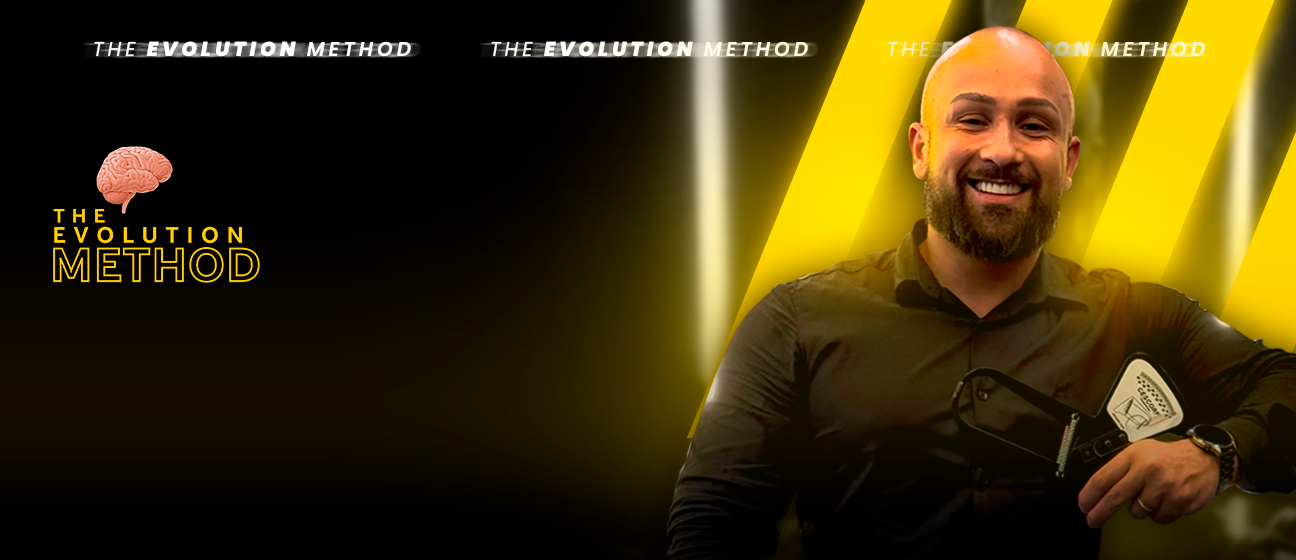
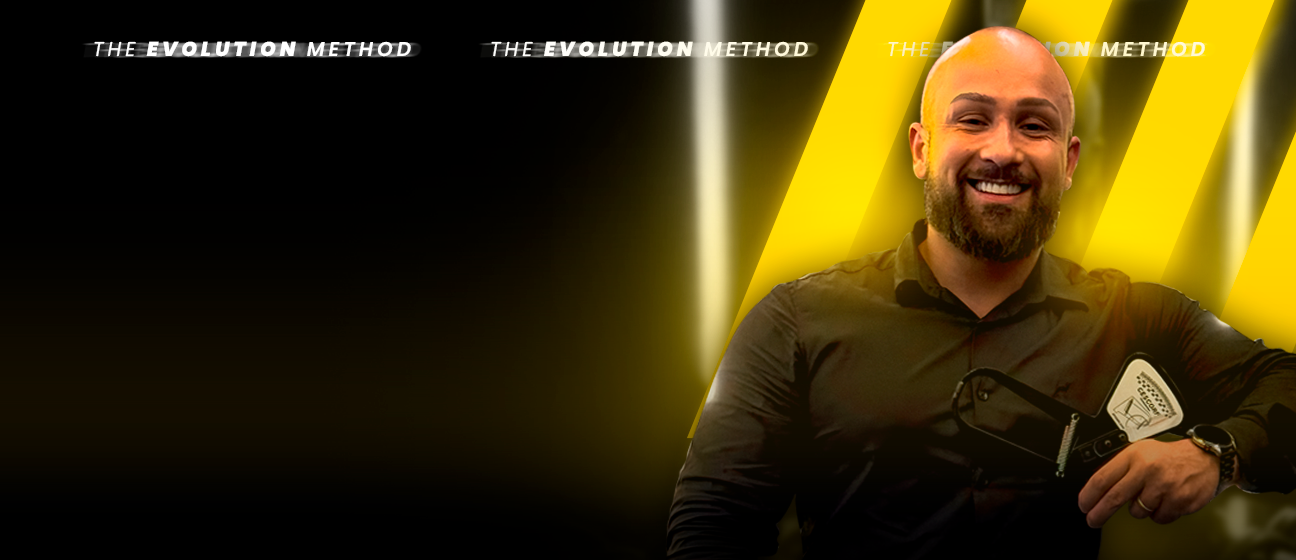
Alteração das imagens do background

Changed region(s): [[0.0309, 0.2429, 0.216, 0.5161]]

diff --git a/src/components/Secoes/Header/Header.css b/src/components/Secoes/Header/Header.css
@@ -130,7 +130,7 @@ h1 {
         font-size: 2.5rem!important;
     }
     .section-header {
-        background-image: url(../../../assets/images/Imagem-capa-mobile2.jpg) !important;
+        background-image: url(../../../assets/images/Imagem-capa-mobile2.png) !important;
         background-size: contain;
         background-position: top;
         height: 70vh;
@@ -151,11 +151,16 @@ h1 {
     h1{
         font-size: 2rem!important;
     }
+    
+    .lead{
+        font-size: 1rem!important;
+    }
+
     .section-header {
-        background-image: url(../../../assets/images/Imagem-capa-mobile2.jpg) !important;
+        background-image: url(../../../assets/images/Imagem-capa-mobile2.png) !important;
         background-size: contain;
         background-position: top;
-        height: 90vh;
+        height: 68vh;
     }
 
     .section-header>div {
@@ -166,5 +171,14 @@ h1 {
 
     a{
         font-size: 1rem!important;
+    }
+}
+
+@media (max-width: 400px) {
+    .section-header {
+        background-image: url(../../../assets/images/Imagem-capa-mobile2.png) !important;
+        background-size: contain;
+        background-position: top;
+        height: 90vh;
     }
 }
